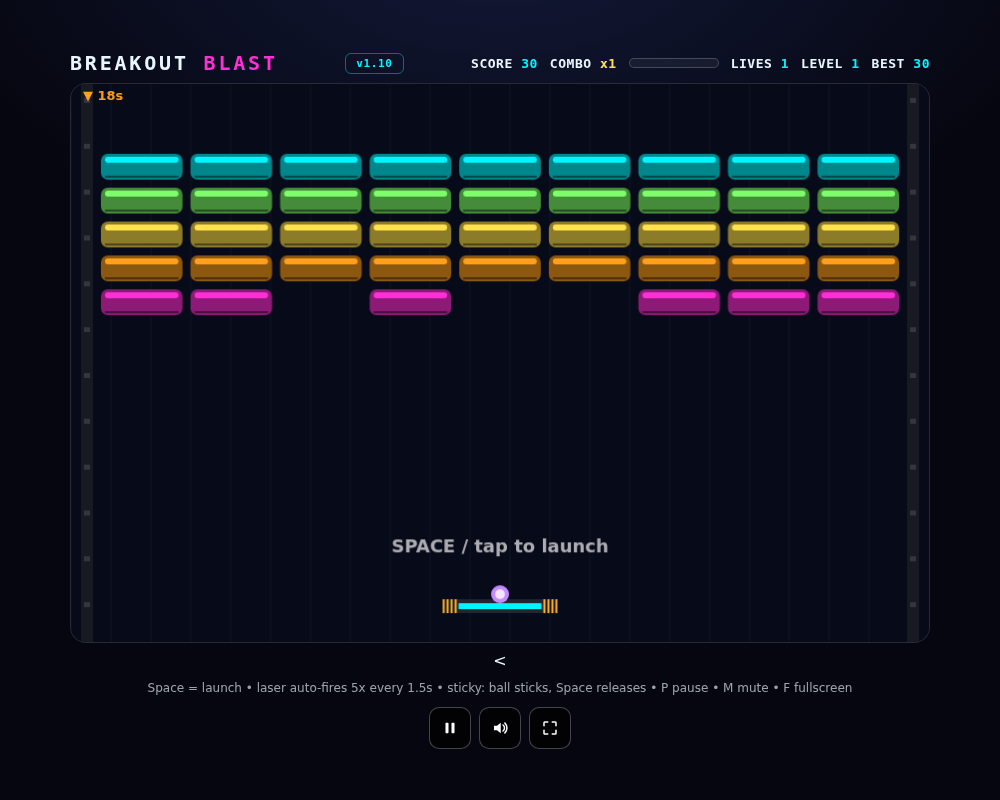
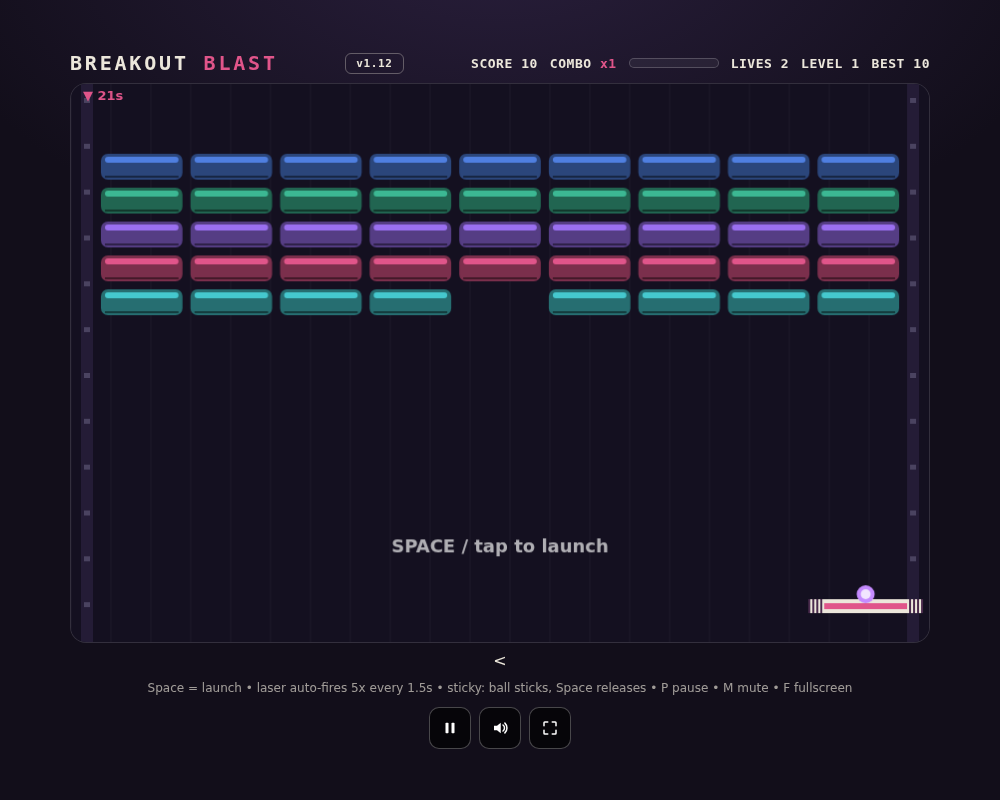
Breakout jewel-dusk repaint: no amber, indicators keep meaning (v1.12)

diff --git a/local-browser-games/1player/breakout-blast/index.html b/local-browser-games/1player/breakout-blast/index.html
@@ -5,21 +5,21 @@
 <meta name="viewport" content="width=device-width,initial-scale=1,maximum-scale=1,user-scalable=no,viewport-fit=cover">
 <title>Breakout Blast — Solo</title>
 <style>
-:root{--c1:#00f6ff;--c2:#ff2fd6;--bg:#05060f;--mono:ui-monospace,"Cascadia Mono","SF Mono",Menlo,Consolas,"Liberation Mono",monospace}
+:root{--c1:#ece7db;--c2:#e0558a;--bg:#120e1a;--mono:ui-monospace,"Cascadia Mono","SF Mono",Menlo,Consolas,"Liberation Mono",monospace}
 *{box-sizing:border-box;-webkit-tap-highlight-color:transparent;user-select:none}
-body{margin:0;background:radial-gradient(1000px 600px at 50% -10%,#141a3a 0%,var(--bg) 60%) fixed,var(--bg);color:#eaf6ff;font-family:ui-sans-serif,system-ui,Segoe UI,Roboto,Arial;overflow:hidden}
+body{margin:0;background:radial-gradient(1000px 600px at 50% -10%,#2a1f3d 0%,var(--bg) 60%) fixed,var(--bg);color:#ece7db;font-family:ui-sans-serif,system-ui,Segoe UI,Roboto,Arial;overflow:hidden}
 #wrap{height:100vh;height:100dvh;display:flex;flex-direction:column;align-items:center;justify-content:center;gap:8px;padding:10px}
 #top{width:min(860px,96vw);display:flex;justify-content:space-between;align-items:center}
 .logo{font-family:var(--mono);font-weight:900;letter-spacing:.14em;font-size:clamp(14px,2.6vw,20px)}
 .logo span{color:var(--c2)}
-#verBadge{font-family:var(--mono);font-size:11px;font-weight:800;letter-spacing:.06em;color:var(--c1);border:1px solid #00f6ff66;border-radius:6px;padding:3px 10px;white-space:nowrap}
+#verBadge{font-family:var(--mono);font-size:11px;font-weight:800;letter-spacing:.06em;color:var(--c1);border:1px solid #ece7db55;border-radius:6px;padding:3px 10px;white-space:nowrap}
 #hud{display:flex;gap:12px;font-family:var(--mono);font-weight:800;font-size:13px;letter-spacing:.04em;flex-wrap:wrap;justify-content:flex-end;font-variant-numeric:tabular-nums}
 #hud b{color:var(--c1)}
-#hud #comboB{color:#ffe14d}
-#stage{position:relative;width:min(860px,96vw,calc((100dvh - 150px)*1.5357));aspect-ratio:860/560;border-radius:16px;overflow:hidden;border:1px solid #ffffff22;background:#070a18}
+#hud #comboB{color:#e0558a}
+#stage{position:relative;width:min(860px,96vw,calc((100dvh - 150px)*1.5357));aspect-ratio:860/560;border-radius:16px;overflow:hidden;border:1px solid #ffffff22;background:#141020}
 canvas{width:100%;height:100%;display:block;touch-action:none}
 #overlay{position:fixed;inset:0;z-index:50;display:flex;align-items:center;justify-content:center;background:rgba(5,6,15,.8);backdrop-filter:blur(6px)}
-.card{width:min(440px,92%);background:#0b1026;border:1px solid #ffffff22;border-radius:16px;padding:22px;text-align:center;max-height:94%;overflow:auto}
+.card{width:min(440px,92%);background:#1c1526;border:1px solid #ffffff22;border-radius:16px;padding:22px;text-align:center;max-height:94%;overflow:auto}
 .card h1{margin:.2em 0;font-size:24px;font-family:var(--mono);letter-spacing:.04em}
 .card p{font-size:12.5px;opacity:.85;line-height:1.7}
 button{cursor:pointer;border:0;border-radius:10px;padding:12px 16px;font-family:var(--mono);font-weight:800;font-size:14px;letter-spacing:.05em;text-transform:uppercase;color:#04121a;background:var(--c1);box-shadow:none;width:100%;margin-top:10px}
@@ -27,10 +27,10 @@ button svg{vertical-align:-3px}
 button.ghost{background:#ffffff14;color:#fff;box-shadow:none;border:1px solid #ffffff2a}
 #hint{font-size:12px;opacity:.65;text-align:center;line-height:1.7}
 #mbtns{display:flex;gap:8px;justify-content:center}
-#menuBest{font-size:13px;color:#ffe14d;font-weight:800;margin-top:8px}
-#title::after{content:"";display:block;height:6px;margin:10px auto 0;width:140px;background:repeating-linear-gradient(90deg,#ffb02e 0 12px,#1a1a1a 12px 24px);border-radius:3px}
+#menuBest{font-size:13px;color:#ece7db;font-weight:800;margin-top:8px}
+#title::after{content:"";display:block;height:6px;margin:10px auto 0;width:140px;background:repeating-linear-gradient(90deg,#e0558a 0 12px,#ece7db 12px 14px,#241a2e 14px 26px);border-radius:3px}
 #heatWrap{width:90px;height:10px;border:1px solid #ffffff33;border-radius:5px;align-self:center;overflow:hidden;background:#ffffff0d}
-#heatFill{height:100%;width:0;background:#ffb02e}
+#heatFill{height:100%;width:0;background:#e0558a}
 #mbtns button{width:42px;height:42px;min-width:42px;padding:0;margin:0;font-size:18px;border-radius:10px;background:#000000aa;color:#fff;box-shadow:none;border:1px solid #ffffff44;flex:none;display:flex;align-items:center;justify-content:center}
 kbd{font-family:var(--mono);background:#ffffff1a;border:1px solid #ffffff2e;border-radius:6px;padding:1px 6px;font-size:11px}
 </style>
@@ -39,7 +39,7 @@ kbd{font-family:var(--mono);background:#ffffff1a;border:1px solid #ffffff2e;bord
 <div id="wrap">
   <div id="top">
     <div class="logo">BREAKOUT <span>BLAST</span></div>
-    <div id="verBadge">v1.11</div><!-- bump on every update, like the server VERSIONs -->
+    <div id="verBadge">v1.12</div><!-- bump on every update, like the server VERSIONs -->
     <div id="hud"><div>SCORE <b id="score">0</b></div><div>COMBO <b id="comboB">x1</b></div><div id="heatWrap" title="Combo heat"><div id="heatFill"></div></div><div>LIVES <b id="lives">3</b></div><div>LEVEL <b id="level">1</b></div><div>BEST <b id="best">0</b></div></div>
   </div>
   <div id="stage">
@@ -85,7 +85,7 @@ const ICON_MUTE='<svg viewBox="0 0 24 24" width="18" height="18" aria-hidden="tr
 const isTouch=('ontouchstart' in window)||navigator.maxTouchPoints>0;
 if(!CanvasRenderingContext2D.prototype.roundRect){CanvasRenderingContext2D.prototype.roundRect=function(x,y,w,h,r){r=Math.min(r,w/2,h/2);this.moveTo(x+r,y);this.arcTo(x+w,y,x+w,y+h,r);this.arcTo(x+w,y+h,x,y+h,r);this.arcTo(x,y+h,x,y,r);this.arcTo(x,y,x+w,y,r);this.closePath();return this;};}
 let AC=null;function beep(f=440,d=.08,type='square',v=.1){if(muted)return;try{AC=AC||new(window.AudioContext||window.webkitAudioContext)();if(AC.state==='suspended')AC.resume();const o=AC.createOscillator(),g=AC.createGain();o.type=type;o.frequency.value=f;g.gain.value=v;o.connect(g);g.connect(AC.destination);o.start();g.gain.exponentialRampToValueAtTime(.001,AC.currentTime+d);o.stop(AC.currentTime+d);}catch(e){}}
-const COLORS=['#00f6ff','#7dff6a','#ffe14d','#ff9f1c','#ff2fd6'];
+const COLORS=['#4f7fe0','#3cb893','#9a6ff0','#e0558a','#45c8ce'];
 // ---- levels (daily challenge = seeded layout, same for everyone all day) ----
 let dailyMode=false,R=Math.random,pressT=0;
 const BH=26;
@@ -101,7 +101,7 @@ function addPressureRow(){
     const r=R();
     if(level>=2&&r<.25){hp=2;type='armor';}
     else if(r<.4){hp=1;type='bomb';}
-    bricks.push({x:30+c*(bw+8),y:top,w:bw,h:BH,hp,maxhp:hp,type,color:type==='bomb'?'#ff4444':type==='armor'?'#9aa7ff':COLORS[(level+c)%COLORS.length],alive:true});
+    bricks.push({x:30+c*(bw+8),y:top,w:bw,h:BH,hp,maxhp:hp,type,color:type==='bomb'?'#e03a5f':type==='armor'?'#9aa7ff':COLORS[(level+c)%COLORS.length],alive:true});
   }
   flash('▼ INCOMING ▼');flashUntil=Date.now()+900;beep(180,.25,'sawtooth',.12);
   if(bricks.some(br=>br.alive&&br.y+br.h>=paddle.y-10))gameOver('overrun');
@@ -112,7 +112,7 @@ function buildLevel(lv){
   R=dailyMode?mulberry32(seedFromStr(dayStr(new Date())+':'+lv)):Math.random;
   const pat=(lv-1)%4;
   const cols=9,bw=(W-60-(cols-1)*8)/cols,bh=26,top=70;
-  const put=(c,r,hp,type)=>{bricks.push({x:30+c*(bw+8),y:top+r*(bh+8),w:bw,h:bh,hp,maxhp:hp,type:type||'norm',color:type==='bomb'?'#ff4444':type==='armor'?'#9aa7ff':COLORS[r%COLORS.length],alive:true});};
+  const put=(c,r,hp,type)=>{bricks.push({x:30+c*(bw+8),y:top+r*(bh+8),w:bw,h:bh,hp,maxhp:hp,type:type||'norm',color:type==='bomb'?'#e03a5f':type==='armor'?'#9aa7ff':COLORS[r%COLORS.length],alive:true});};
   if(pat===0){ // classic rows + armor top row at lv3+
     const rows=4+Math.min(3,lv);
     for(let r=0;r<rows;r++)for(let c=0;c<cols;c++){
@@ -216,7 +216,7 @@ function damageBrick(br,amt){
     }
     if(br.type==='bomb'){ // explode neighbors
       beep(150,.25,'sawtooth',.15);
-      burst(br.x+br.w/2,br.y+br.h/2,'#ffaa00',26);
+      burst(br.x+br.w/2,br.y+br.h/2,'#e0558a',26);
       bricks.forEach(o=>{if(!o.alive||o===br)return;
         const cx=o.x+o.w/2,cy=o.y+o.h/2,bx=br.x+br.w/2,by=br.y+br.h/2;
         if(Math.abs(cx-bx)<130&&Math.abs(cy-by)<70)damageBrick(o,1);
@@ -297,7 +297,7 @@ function update(dt){
     }
     // bottom: shield or death
     if(b.y>H+24){
-      if(shield){shield=false;b.y=H-40;b.vy=-Math.abs(b.vy)||-400;b.vx*=-1;beep(900,.15,'square',.12);burst(b.x,H-20,'#00f6ff',22);flash('SHIELD SAVE!');}
+      if(shield){shield=false;b.y=H-40;b.vy=-Math.abs(b.vy)||-400;b.vx*=-1;beep(900,.15,'square',.12);burst(b.x,H-20,'#7dffcb',22);flash('SHIELD SAVE!');}
       else b.dead=true;
     }
   });
@@ -336,34 +336,34 @@ function drawIngot(br){
     const pr=6+2*Math.sin(Date.now()/200);
     ctx.fillStyle='#ff2fd6';ctx.beginPath();ctx.arc(x+w/2,y+h/2,pr+3,0,7);ctx.fill();
     ctx.fillStyle='#fff';ctx.beginPath();ctx.arc(x+w/2,y+h/2,pr,0,7);ctx.fill();
-  }else if(br.type==='bomb'){
-    ctx.fillStyle='#2e2833';
+  }else   if(br.type==='bomb'){
+    ctx.fillStyle='#2b2130';
     ctx.beginPath();ctx.roundRect(x,y,w,h,7);ctx.fill();
-    ctx.fillStyle='#141118';ctx.fillRect(x,y+11,w,4);ctx.fillRect(x,y+h-13,w,4);
-    ctx.fillStyle='#ff5544';ctx.fillRect(x+4,y+3,w-8,4);
+    ctx.fillStyle='#171221';ctx.fillRect(x,y+11,w,4);ctx.fillRect(x,y+h-13,w,4);
+    ctx.fillStyle='#e03a5f';ctx.fillRect(x+4,y+3,w-8,4);
     const cx=x+w/2;
-    ctx.fillStyle='#78603c';ctx.fillRect(cx-4,y-7,8,8);
-    ctx.strokeStyle='#96754a';ctx.lineWidth=2;ctx.beginPath();ctx.moveTo(cx+4,y-7);ctx.lineTo(cx+11,y-13);ctx.stroke();
-    ctx.fillStyle='#ff5544';
+    ctx.fillStyle='#8a93a6';ctx.fillRect(cx-4,y-7,8,8);
+    ctx.strokeStyle='#5a6270';ctx.lineWidth=2;ctx.beginPath();ctx.moveTo(cx+4,y-7);ctx.lineTo(cx+11,y-13);ctx.stroke();
+    ctx.fillStyle='#e03a5f';
     for(const tx of [x+9,x+w-9])for(let k=0;k<2;k++)ctx.fillRect(tx-3,y+h+3+k*5,6,2);
   }else{
     const base=br.type==='armor'?(br.hp>1?'#dfe6ff':'#9aa7ff'):br.color;
     ctx.fillStyle=shade(base,.55);
     ctx.beginPath();ctx.roundRect(x,y,w,h,7);ctx.fill();
-    ctx.fillStyle=br.type==='armor'?'#ffb02e':base;
+    ctx.fillStyle=br.type==='armor'?'#e0558a':base;
     ctx.beginPath();ctx.roundRect(x+4,y+3,w-8,6,3);ctx.fill();
     ctx.fillStyle='rgba(0,0,0,.45)';ctx.fillRect(x+4,y+h-4,w-8,2);
     if(br.type==='armor'){
       ctx.fillStyle='#464e66';
       for(const[rx,ry]of[[x+8,y+13],[x+w-8,y+13],[x+8,y+h-8],[x+w-8,y+h-8]]){ctx.beginPath();ctx.arc(rx,ry,2.5,0,7);ctx.fill();}
-      ctx.fillStyle='#ffb02e';
+      ctx.fillStyle='#e0558a';
       const n=Math.min(2,br.hp);
       for(let i=0;i<n;i++){const sx=x+w/2-13+i*22;ctx.fillRect(sx,y+11,14,h-20);}
     }
   }
   ctx.restore();
 }
-const PCOL={expand:'#00f6ff',slow:'#7dff6a',multi:'#ffe14d',life:'#ff6b6b',fire:'#ff9f1c',laser:'#00aaff',sticky:'#c58bff',shield:'#7dffcb'};
+const PCOL={expand:'#00f6ff',slow:'#7dff6a',multi:'#e8e4f2',life:'#ff6b6b',fire:'#ff9f1c',laser:'#00aaff',sticky:'#c58bff',shield:'#7dffcb'};
 // stamped token glyphs (vector, no emoji)
 function drawGlyph(kind,x,y,c){
   ctx.save();ctx.translate(x,y);ctx.strokeStyle=c;ctx.fillStyle=c;ctx.lineWidth=2.5;ctx.lineCap='round';ctx.lineJoin='round';
@@ -374,7 +374,7 @@ function drawGlyph(kind,x,y,c){
     case 'slow':ctx.beginPath();ctx.arc(0,0,7,0.7,5.6);ctx.stroke();dot(0,0,2.5);break;
     case 'multi':dot(-6,4,4);dot(6,4,4);dot(0,-6,4);break;
     case 'life':ctx.beginPath();ctx.moveTo(0,8);ctx.bezierCurveTo(-11,-2,-7,-10,0,-4);ctx.bezierCurveTo(7,-10,11,-2,0,8);ctx.fill();break;
-    case 'fire':ctx.beginPath();ctx.moveTo(0,-9);ctx.lineTo(6,-1);ctx.lineTo(4,8);ctx.lineTo(-4,8);ctx.lineTo(-6,-1);ctx.closePath();ctx.fill();ctx.fillStyle='#101322';ctx.beginPath();ctx.moveTo(0,-1);ctx.lineTo(3,4);ctx.lineTo(0,7);ctx.lineTo(-3,4);ctx.closePath();ctx.fill();break;
+    case 'fire':ctx.beginPath();ctx.moveTo(0,-9);ctx.lineTo(6,-1);ctx.lineTo(4,8);ctx.lineTo(-4,8);ctx.lineTo(-6,-1);ctx.closePath();ctx.fill();ctx.fillStyle='#171222';ctx.beginPath();ctx.moveTo(0,-1);ctx.lineTo(3,4);ctx.lineTo(0,7);ctx.lineTo(-3,4);ctx.closePath();ctx.fill();break;
     case 'laser':ctx.beginPath();ctx.moveTo(2,-9);ctx.lineTo(-3,1);ctx.lineTo(0,1);ctx.lineTo(-2,9);ctx.lineTo(4,-2);ctx.lineTo(1,-2);ctx.closePath();ctx.fill();break;
     case 'sticky':ctx.beginPath();ctx.moveTo(0,-8);ctx.lineTo(7,0);ctx.lineTo(0,8);ctx.lineTo(-7,0);ctx.closePath();ctx.fill();break;
     case 'shield':ctx.beginPath();ctx.moveTo(0,-8);ctx.lineTo(7,-5);ctx.lineTo(6,4);ctx.lineTo(0,9);ctx.lineTo(-6,4);ctx.lineTo(-7,-5);ctx.closePath();ctx.stroke();break;
@@ -383,33 +383,33 @@ function drawGlyph(kind,x,y,c){
   ctx.restore();
 }
 function draw(t){
-  ctx.fillStyle='#070a18';ctx.fillRect(0,0,W,H);
+  ctx.fillStyle='#141020';ctx.fillRect(0,0,W,H);
   ctx.strokeStyle='#ffffff0c';for(let x=0;x<W;x+=40){ctx.beginPath();ctx.moveTo(x,0);ctx.lineTo(x,H);ctx.stroke();}
   // foundry girders
-  for(const gx of [10,W-22]){ctx.fillStyle='#181a22';ctx.fillRect(gx,0,12,H);ctx.fillStyle='#33363f';for(let y=14;y<H;y+=46)ctx.fillRect(gx+3,y,6,5);}
+  for(const gx of [10,W-22]){ctx.fillStyle='#241c36';ctx.fillRect(gx,0,12,H);ctx.fillStyle='#4a4360';for(let y=14;y<H;y+=46)ctx.fillRect(gx+3,y,6,5);}
   bricks.forEach(br=>{if(br.alive)drawIngot(br);});
-  powerups.forEach(p=>{const c=PCOL[p.kind]||'#fff';ctx.save();ctx.fillStyle='#101322';ctx.beginPath();ctx.arc(p.x,p.y,p.r,0,7);ctx.fill();ctx.strokeStyle=c;ctx.lineWidth=2.5;ctx.beginPath();ctx.arc(p.x,p.y,p.r,0,7);ctx.stroke();drawGlyph(p.kind,p.x,p.y,c);ctx.restore();});
+  powerups.forEach(p=>{const c=PCOL[p.kind]||'#fff';ctx.save();ctx.fillStyle='#171222';ctx.beginPath();ctx.arc(p.x,p.y,p.r,0,7);ctx.fill();ctx.strokeStyle=c;ctx.lineWidth=2.5;ctx.beginPath();ctx.arc(p.x,p.y,p.r,0,7);ctx.stroke();drawGlyph(p.kind,p.x,p.y,c);ctx.restore();});
   shots.forEach(s=>{ctx.fillStyle='#bff';ctx.fillRect(s.x-2,s.y-12,4,12);});
   // shield line
   if(shield){ctx.save();ctx.strokeStyle='#7dffcb';ctx.lineWidth=4;ctx.setLineDash([10,8]);ctx.beginPath();ctx.moveTo(8,H-6);ctx.lineTo(W-8,H-6);ctx.stroke();ctx.restore();ctx.setLineDash([]);}
-  // paddle: crane rail with hazard end-caps + energy core
+  // paddle: cream rail with plum end-caps + rose energy core
   ctx.save();
-  ctx.fillStyle='#23262f';
+  ctx.fillStyle='#ece7db';
   ctx.beginPath();ctx.roundRect(paddle.x-paddle.w/2,paddle.y-7,paddle.w,14,7);ctx.fill();
   for(const s of [-1,1]){
     const ex=s<0?paddle.x-paddle.w/2:paddle.x+paddle.w/2-14;
-    ctx.fillStyle='#ffb02e';ctx.fillRect(ex,paddle.y-7,14,14);
-    ctx.fillStyle='#15151c';
+    ctx.fillStyle='#4a2b4d';ctx.fillRect(ex,paddle.y-7,14,14);
+    ctx.fillStyle='#ece7db';
     for(let i=0;i<3;i++)ctx.fillRect(ex+2+i*4,paddle.y-7,2,14);
   }
-  ctx.fillStyle=Date.now()<stickyUntil?'#c58bff':'#00f6ff';
+  ctx.fillStyle=Date.now()<stickyUntil?'#c58bff':'#e0558a';
   ctx.fillRect(paddle.x-paddle.w/2+16,paddle.y-3,paddle.w-32,6);
   if(laserShotsLeft>0){ctx.fillStyle='#223';ctx.fillRect(paddle.x-26,paddle.y-16,12,10);ctx.fillRect(paddle.x+14,paddle.y-16,12,10);ctx.fillStyle='#0af';ctx.fillRect(paddle.x-23,paddle.y-16,6,6);ctx.fillRect(paddle.x+17,paddle.y-16,6,6);}
   ctx.restore();
   balls.forEach(b=>{ctx.save();const fire=b.fire&&Date.now()<b.fire;
-    ctx.fillStyle=b.stuck?'#c58bff':fire?'#ff7a1a':'#ff8c2e';
+    ctx.fillStyle=b.stuck?'#c58bff':fire?'#ff7a1a':'#e0558a';
     ctx.beginPath();ctx.arc(b.x,b.y,b.r,0,7);ctx.fill();
-    ctx.fillStyle=b.stuck?'#f2e6ff':fire?'#fff3c4':'#fff6da';
+    ctx.fillStyle=b.stuck?'#f2e6ff':fire?'#fff3c4':'#f6f1e6';
     ctx.beginPath();ctx.arc(b.x,b.y,b.r*0.55,0,7);ctx.fill();ctx.restore();});
   parts.forEach(p=>{ctx.globalAlpha=Math.max(0,p.life);ctx.fillStyle=p.color;ctx.fillRect(p.x-2,p.y-2,4,4);});ctx.globalAlpha=1;
   // active timers
@@ -417,7 +417,7 @@ function draw(t){
   let yy=16;
   if(laserShotsLeft>0){ctx.fillStyle='#7dc4ff';ctx.fillText('LASER x'+laserShotsLeft,12,yy);yy+=18;}
   if(Date.now()<stickyUntil){ctx.fillStyle='#c58bff';ctx.fillText('STICKY '+Math.ceil((stickyUntil-Date.now())/1000)+'s',12,yy);yy+=18;}
-  if(running&&!paused&&dailyMode){ctx.fillStyle=pressEvery()-pressT<5?'#ff6b6b':'#ff9f1c';ctx.fillText('▼ '+Math.max(0,Math.ceil(pressEvery()-pressT))+'s',12,yy);yy+=18;}
+  if(running&&!paused&&dailyMode){ctx.fillStyle=pressEvery()-pressT<5?'#ff6b6b':'#e0558a';ctx.fillText('▼ '+Math.max(0,Math.ceil(pressEvery()-pressT))+'s',12,yy);yy+=18;}
   balls.forEach(b=>{if(b.fire&&Date.now()<b.fire){ctx.fillStyle='#ffb35c';ctx.fillText('FIRE '+Math.ceil((b.fire-Date.now())/1000)+'s',12,yy);}});
   ctx.restore();
   if(Date.now()<flashUntil){ctx.save();ctx.textAlign='center';ctx.font='900 52px system-ui';ctx.shadowColor='#00f6ff';ctx.shadowBlur=26;ctx.fillStyle='#fff';ctx.fillText(flashTxt,W/2,H/2);ctx.restore();}
